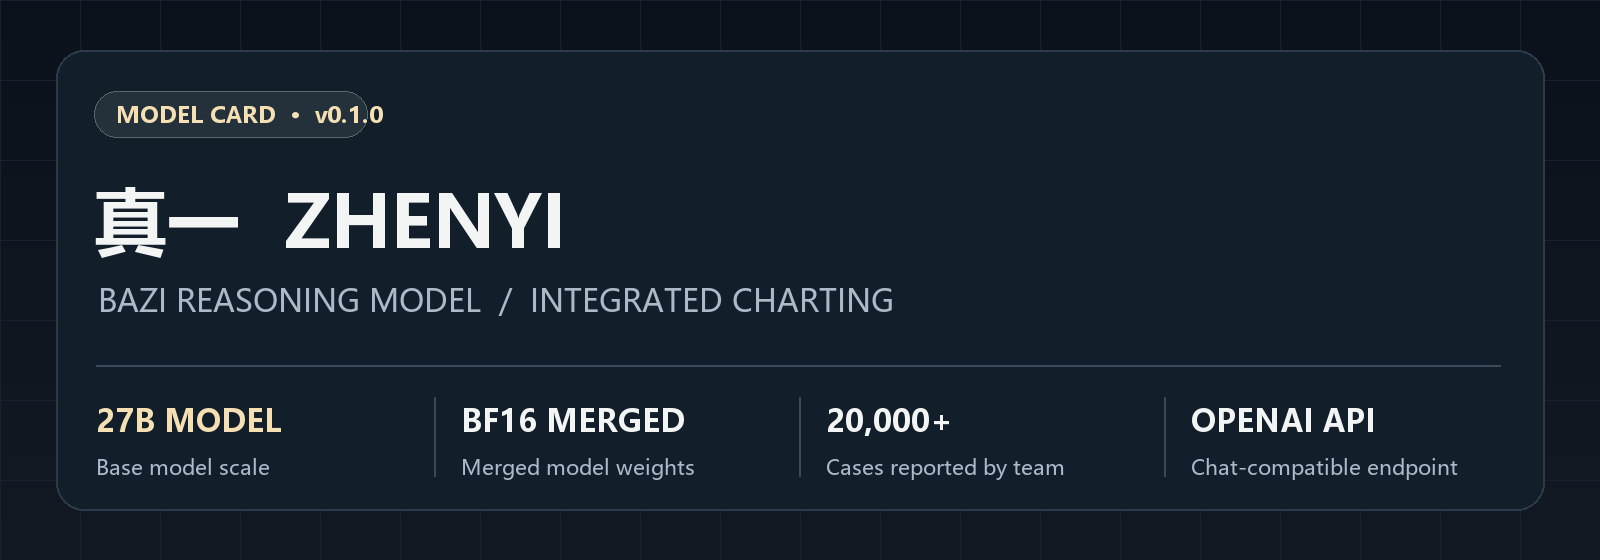
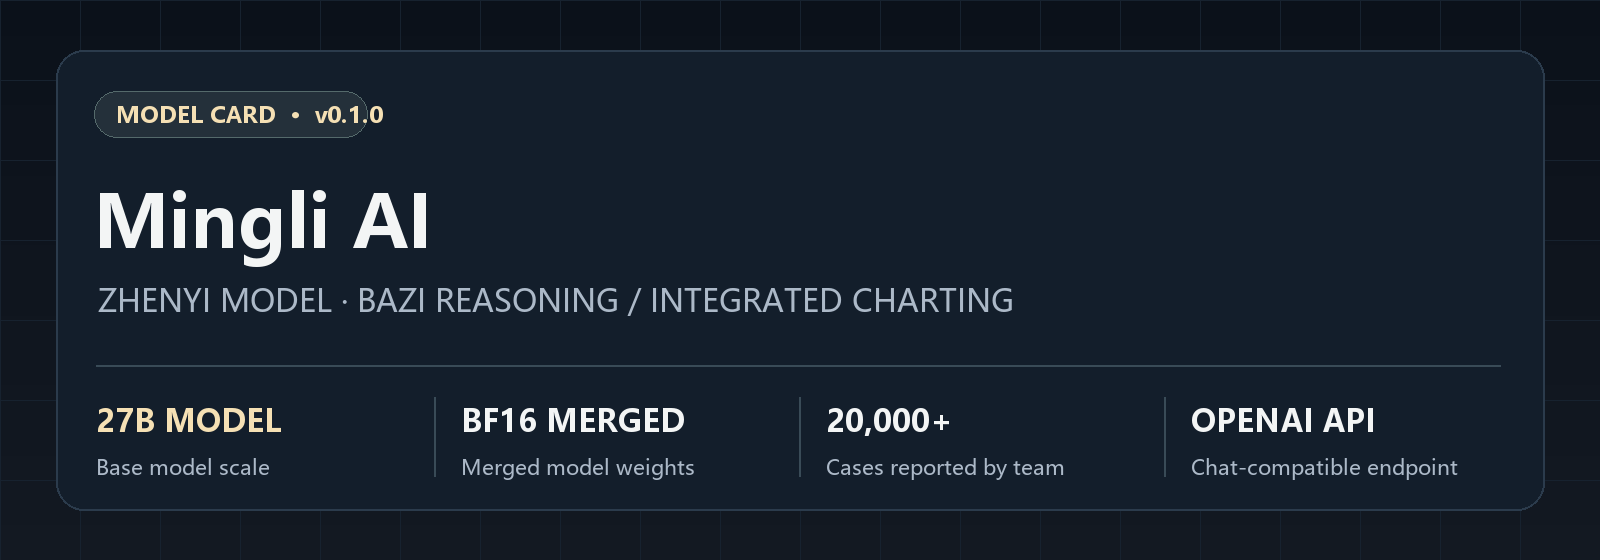
docs: publish ZHENYI model card and technical figures

Changed region(s): [[0.0625, 0.3339, 0.375, 0.4857], [0.0625, 0.5161, 0.625, 0.5768]]

diff --git a/README.en.md b/README.en.md
@@ -1,8 +1,8 @@
 **Languages:** [简体中文](README.md) · English · [日本語](README.ja.md)
 
-# ZHENYI 真一
+# Mingli AI
 
-### The world's first AI fortune-telling language model
+### ZHENYI: the world's first open-source AI fortune-telling language model
 
 **Send birth details or four pillars to ZHENYI, then ask your question.** The backend calculates the chart with the included software. The model reads it through Blind School methods and also considers Wangshuai, Ziping, and Tiaohou approaches. You can try it online or download the weights and source code to run it yourself.
 
@@ -10,7 +10,7 @@
 
 ![ZHENYI model overview](docs/assets/model-overview-en.png)
 
-[Try online](https://www.zhenyi.org) · [Model weights](https://github.com/ZHENYI-ORG/zhenyi-mingli-ai/releases/tag/v0.1.0) · [Evaluation](#evaluation) · [Quick start](#quick-start) · [API](#api-usage) · [Contribute](#why-open-source)
+[Try online](https://www.zhenyi.org) · [Model weights](https://github.com/ZHENYI-ORG/Mingli-AI/releases/tag/v0.1.0) · [Evaluation](#evaluation) · [Quick start](#quick-start) · [API](#api-usage) · [Contribute](#why-open-source)
 
 ## Model overview
 
@@ -49,7 +49,7 @@ The ZHENYI team tested the model and several general-purpose models on **questio
 
 | Artifact | Location | Purpose |
 | --- | --- | --- |
-| Merged model weights | [v0.1.0 Release](https://github.com/ZHENYI-ORG/zhenyi-mingli-ai/releases/tag/v0.1.0) | Download every split asset and reconstruct the model directory |
+| Merged model weights | [v0.1.0 Release](https://github.com/ZHENYI-ORG/Mingli-AI/releases/tag/v0.1.0) | Download every split asset and reconstruct the model directory |
 | Reconstruction script | [scripts/reconstruct-model.py](scripts/reconstruct-model.py) | Verify SHA-256 checksums and rebuild the files |
 | Source and deployment configuration | This repository | Backend, charting program, web app, and launch scripts |
 
@@ -62,7 +62,7 @@ If you only want to explore the model, use the [online experience](https://www.z
 Self-hosting requires Node.js 20+, Python 3, and a compatible [ms-swift](https://github.com/modelscope/ms-swift) inference environment. Download all Release assets, reconstruct the model, and build the backend:
 
 ```bash
-gh release download v0.1.0 --repo ZHENYI-ORG/zhenyi-mingli-ai --dir model-assets
+gh release download v0.1.0 --repo ZHENYI-ORG/Mingli-AI --dir model-assets
 python3 scripts/reconstruct-model.py model-assets model/zhenyi
 npm ci
 npm run build
@@ -114,15 +114,15 @@ I opened the project because I want people to use it and challenge it. If the ch
 - To cite the project:
 
 ```bibtex
-@misc{zhenyi2026,
-  title        = {ZHENYI: An Open-Source Bazi Astrology Language Model},
+@misc{mingliai2026,
+  title        = {Mingli AI: The ZHENYI Open-Source Bazi Astrology Language Model},
   author       = {{ZHENYI-ORG}},
   year         = {2026},
-  howpublished = {\url{https://github.com/ZHENYI-ORG/zhenyi-mingli-ai}}
+  howpublished = {\url{https://github.com/ZHENYI-ORG/Mingli-AI}}
 }
 ```
 
 ## Star History
 
-[![ZHENYI GitHub Star History](https://api.star-history.com/svg?repos=ZHENYI-ORG/zhenyi-mingli-ai&type=Date)](https://star-history.com/#ZHENYI-ORG/zhenyi-mingli-ai&Date)
+[![ZHENYI GitHub Star History](https://api.star-history.com/svg?repos=ZHENYI-ORG/Mingli-AI&type=Date)](https://star-history.com/#ZHENYI-ORG/Mingli-AI&Date)
 
